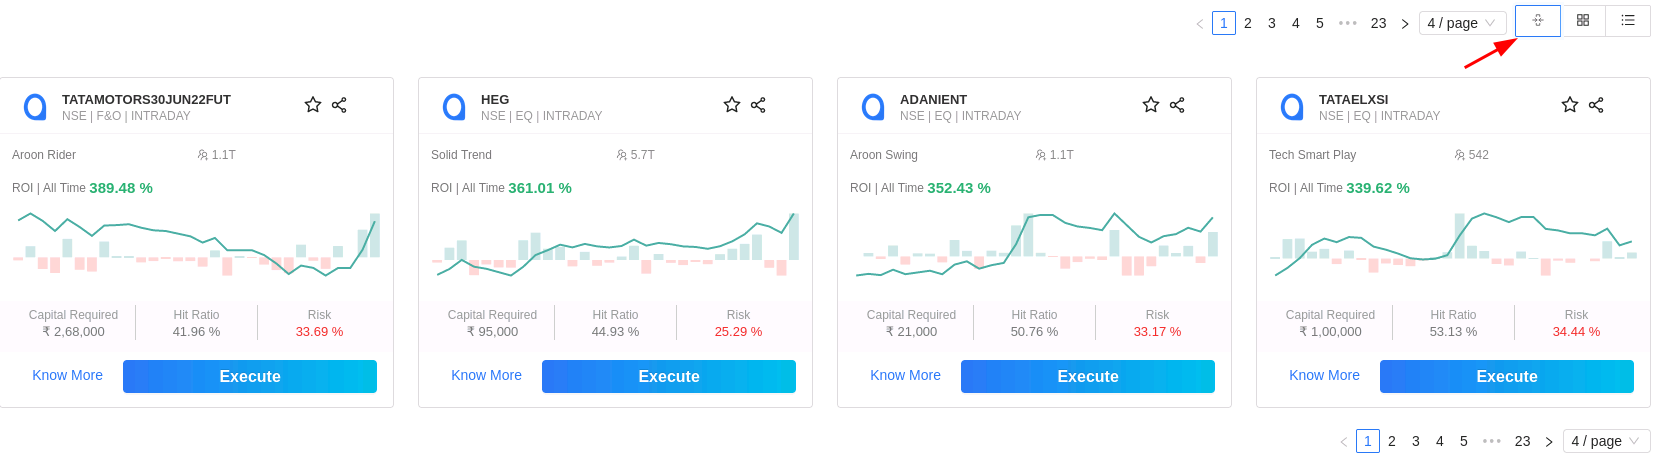
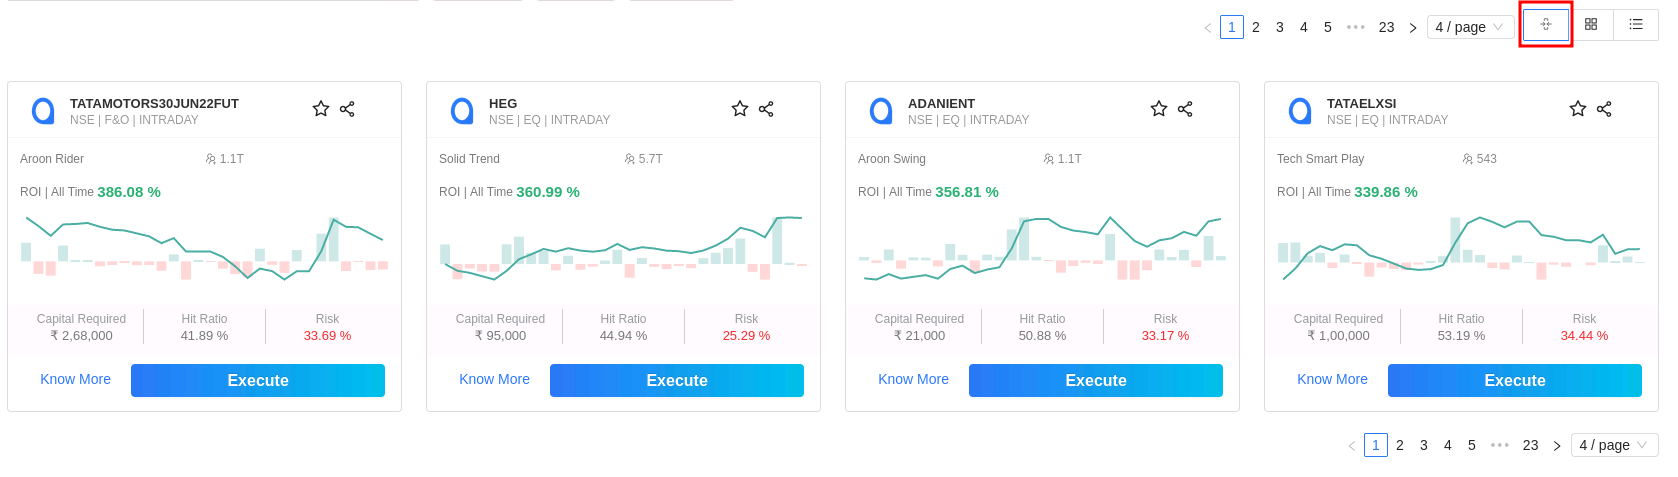
feature/algobulls_view_mode_updates

diff --git a/docs/member/choose-strategy.md b/docs/member/choose-strategy.md
@@ -85,15 +85,11 @@ You can click the < and > for changing pages. You can also choose to view 4/8/12
 
 Adjust the density by choosing the Compact, Regular or List Mode.
 
-![ChooseStrategy](imgs/cs9.png)
-
-![ChooseStrategy](imgs/cs10.png)
-
 ### ix. Compact Mode
 
 In this mode the strategies are displayed in a compact view. You can click on the know more button to view the whole strategy.
 
-![ChooseStrategy](imgs/compact_mode_2.png)
+![ChooseStrategy](imgs/compact_mode.png)
 
 ### x. Regular Mode 
 
